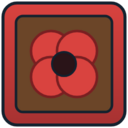
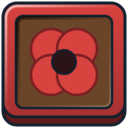
Faux 3D (option A) : tuiles en blocs biseautés, ombres portées sous les sacs et les panneaux
Claude-Session: https://claude.ai/code/session_013EccGmGcBAAqujeLGmWbCi

diff --git a/Design/Tiles/generate_tiles.py b/Design/Tiles/generate_tiles.py
@@ -7,13 +7,29 @@ O = '#13212e'
 CHROME = '/opt/pw-browsers/chromium-1194/chrome-linux/chrome'
 RES = '../../Assets/Resources'
 
+def darken(hexcolor, k):
+    h = hexcolor.lstrip('#')
+    r, g, b = (int(h[n:n + 2], 16) for n in (0, 2, 4))
+    return '#%02x%02x%02x' % (int(r * k), int(g * k), int(b * k))
+
 def tile(b_top, b_bot, soil, emblem, extra_defs=''):
+    """A chunky block seen from slightly above (faux 3D): a darker front face (the block's thickness), a beveled top face with a soft
+    light edge on its top-left, and a sunken soil bed with an inner shadow. The emblem is unchanged, drawn on the soil."""
+    side = darken(b_bot, 0.58)
     return ('<svg xmlns="http://www.w3.org/2000/svg" viewBox="0 0 256 256" width="256" height="256">'
-            '<defs><linearGradient id="b" x1="0" y1="0" x2="0" y2="1"><stop offset="0" stop-color="%s"/><stop offset="1" stop-color="%s"/></linearGradient>%s'
-            '<clipPath id="c"><rect x="32" y="32" width="192" height="192" rx="14"/></clipPath></defs>'
-            '<rect x="6" y="6" width="244" height="244" rx="28" fill="url(#b)" stroke="%s" stroke-width="6"/>'
-            '<rect x="32" y="32" width="192" height="192" rx="14" fill="%s" stroke="%s" stroke-width="5"/>'
-            '<g clip-path="url(#c)" stroke-linejoin="round" stroke-linecap="round">%s</g></svg>') % (b_top, b_bot, extra_defs, O, soil, O, emblem)
+            '<defs><linearGradient id="b" x1="0" y1="0" x2="0" y2="1"><stop offset="0" stop-color="%s"/><stop offset="1" stop-color="%s"/></linearGradient>'
+            '<linearGradient id="h" x1="0" y1="0" x2="1" y2="1"><stop offset="0" stop-color="#ffffff" stop-opacity="0.65"/><stop offset="0.5" stop-color="#ffffff" stop-opacity="0"/></linearGradient>'
+            '<linearGradient id="s" x1="0" y1="0" x2="1" y2="1"><stop offset="0" stop-color="#000000" stop-opacity="0.55"/><stop offset="0.55" stop-color="#000000" stop-opacity="0"/></linearGradient>'
+            '<linearGradient id="r" x1="0" y1="0" x2="1" y2="1"><stop offset="0.5" stop-color="#ffffff" stop-opacity="0"/><stop offset="1" stop-color="#ffffff" stop-opacity="0.28"/></linearGradient>%s'
+            '<clipPath id="c"><rect x="32" y="32" width="192" height="184" rx="14"/></clipPath></defs>'
+            '<rect x="6" y="20" width="244" height="230" rx="28" fill="%s" stroke="%s" stroke-width="6"/>'
+            '<rect x="6" y="6" width="244" height="228" rx="28" fill="url(#b)" stroke="%s" stroke-width="6"/>'
+            '<rect x="12" y="12" width="232" height="216" rx="23" fill="none" stroke="url(#h)" stroke-width="5"/>'
+            '<rect x="32" y="32" width="192" height="184" rx="14" fill="%s" stroke="%s" stroke-width="5"/>'
+            '<rect x="35.5" y="35.5" width="185" height="177" rx="12" fill="none" stroke="url(#s)" stroke-width="7"/>'
+            '<rect x="35.5" y="35.5" width="185" height="177" rx="12" fill="none" stroke="url(#r)" stroke-width="3"/>'
+            '<g clip-path="url(#c)"><g transform="translate(0,-4)" stroke-linejoin="round" stroke-linecap="round">%s</g></g></svg>') % (
+                b_top, b_bot, extra_defs, side, O, O, soil, O, emblem)
 
 def petals(n, r, w, fill, stroke, sw=5, phase=0, cx=128, cy=128, r_in=10):
     s = ''
@@ -113,10 +129,28 @@ tiles['Locked'] = tile('#7a6650', '#443626', '#2e2118', vd)
 os.makedirs('%s/Tiles' % RES, exist_ok=True)
 for name, svg in tiles.items():
     open(name + '.svg', 'w').write(svg)
-    open('_t.html', 'w').write('<html><body style="margin:0;background:transparent">%s</body></html>' % svg)
-    subprocess.run([CHROME, '--headless', '--no-sandbox', '--disable-gpu', '--hide-scrollbars', '--default-background-color=00000000',
-                    '--window-size=256,556', '--screenshot=_t.png', 'file://' + os.path.abspath('_t.html')], stdout=subprocess.DEVNULL, stderr=subprocess.DEVNULL)
-    subprocess.run(['convert', '_t.png', '-crop', '256x256+0+0', '+repage', name + '_256.png'])
+names = list(tiles.keys())
+js = """
+const { chromium } = require('playwright');
+const fs = require('fs');
+(async () => {
+  const b = await chromium.launch();
+  const p = await b.newPage({ viewport: { width: 256, height: 256 }, deviceScaleFactor: 1 });
+  for (const name of %s) {
+    const svg = fs.readFileSync(name + '.svg', 'utf8');
+    await p.setContent('<html><body style="margin:0;background:transparent">' + svg + '</body></html>');
+    await p.screenshot({ path: name + '_256.png', omitBackground: true, clip: { x: 0, y: 0, width: 256, height: 256 } });
+  }
+  await b.close();
+})();
+""" % names
+open('_render.js', 'w').write(js)
+env = dict(os.environ, NODE_PATH=subprocess.check_output(['npm', 'root', '-g']).decode().strip())
+subprocess.run(['node', '_render.js'], check=True, env=env)
+os.remove('_render.js')
+for name in names:
     subprocess.run(['convert', name + '_256.png', '-resize', '52x52', name + '_52.png'])
+    # The game loads 128 px copies (Resources/Tiles/<Name>.png, with their .meta already in place); Locked has none there.
+    if os.path.exists('%s/Tiles/%s.png' % (RES, name)):
+        subprocess.run(['convert', name + '_256.png', '-resize', '128x128', '%s/Tiles/%s.png' % (RES, name)])
     print('wrote', name)
-os.remove('_t.html'); os.remove('_t.png')

diff --git a/Assets/Scripts/Presentation/UIFactory.cs b/Assets/Scripts/Presentation/UIFactory.cs
@@ -189,6 +189,15 @@ namespace Contigu.Presentation
         /// sprite's rounded corners automatically. Not called from
         /// <see cref="FinishButton"/>; buttons get no outline.
         /// </summary>
+        /// <summary>A soft drop shadow under an icon (faux depth): a darkened copy of the graphic, offset downward, drawn behind it.</summary>
+        public static void AddDropShadow(Graphic target, float distance, float alpha = 0.32f)
+        {
+            var shadow = target.gameObject.AddComponent<Shadow>();
+            shadow.effectColor = new Color(0f, 0f, 0f, alpha);
+            shadow.effectDistance = new Vector2(distance * 0.35f, -distance);
+            shadow.useGraphicAlpha = true;
+        }
+
         public static void AddThickOutline(Image target, Color color, float thickness = 3f)
         {
             var outline = target.gameObject.AddComponent<Outline>();

diff --git a/Assets/Scripts/Presentation/GameBootstrap.Shop.cs b/Assets/Scripts/Presentation/GameBootstrap.Shop.cs
@@ -394,6 +394,7 @@ namespace Contigu.Presentation
             image.sprite = sprite;
             image.preserveAspect = true;
             image.raycastTarget = false;
+            UIFactory.AddDropShadow(image, 4f);
             image.rectTransform.anchorMin = new Vector2(0.5f - ShopView.UpgradeGlyphShopScale * 0.5f, 0.5f - ShopView.UpgradeGlyphShopScale * 0.5f);
             image.rectTransform.anchorMax = new Vector2(0.5f + ShopView.UpgradeGlyphShopScale * 0.5f, 0.5f + ShopView.UpgradeGlyphShopScale * 0.5f);
             image.rectTransform.offsetMin = image.rectTransform.offsetMax = Vector2.zero;

diff --git a/Assets/Scripts/Presentation/UpgradeCardFactory.cs b/Assets/Scripts/Presentation/UpgradeCardFactory.cs
@@ -40,6 +40,7 @@ namespace Contigu.Presentation
                 icon.sprite = signIcon;
                 icon.preserveAspect = true;
                 icon.raycastTarget = false;
+                UIFactory.AddDropShadow(icon, Mathf.Max(2f, IconSize * 0.04f));
                 icon.rectTransform.anchorMin = new Vector2(0.5f, 1f);
                 icon.rectTransform.anchorMax = new Vector2(0.5f, 1f);
                 icon.rectTransform.pivot = new Vector2(0.5f, 1f);

diff --git a/Assets/Scripts/Presentation/ModifierBadgeFactory.cs b/Assets/Scripts/Presentation/ModifierBadgeFactory.cs
@@ -51,6 +51,7 @@ namespace Contigu.Presentation
                 iconImage.preserveAspect = true;
                 iconImage.raycastTarget = false;
                 iconImage.sprite = icon;
+                UIFactory.AddDropShadow(iconImage, Mathf.Max(2f, size * 0.045f));
             }
             else if (colorTileColor.HasValue)
             {

diff --git a/docs/DECISIONS.md b/docs/DECISIONS.md
@@ -9477,3 +9477,9 @@ Ceci couvre l'intégralité des retours de playtest de cette liste.
 
 ## 2026-11-11 — Engagements : l'interrupteur remplacé par une coche
 - L'interrupteur (piste + bouton) était laid à l'écran. Remplacé par un état plus simple : une puce active est dorée avec un petit badge vert à coche (dessinée avec deux barres, sans glyphe) dans son coin ; une puce inactive garde son corps vert d'origine, assombri, avec un libellé estompé. Le libellé reprend toute la largeur de la puce. Non vérifié dans Unity.
+
+## 2026-11-12 — Faux 3D (option A) : première passe
+- Pistes étudiées pour la 3D : (A) faux 3D en 2D, (B) 3D réelle hybride, (C) jeu entièrement 3D. On commence par A ; B ne viendra qu'après un essai mesuré sur iPad (WebGL : mémoire, appels de rendu, modèles à produire pour les formes, couleurs et plus de cent fertilizers).
+- **Tuiles et pièces** (`Design/Tiles/generate_tiles.py`, rendu avec Playwright, copies 128 px dans `Assets/Resources/Tiles`) : chaque tuile devient un bloc vu d'un peu au-dessus : face avant plus sombre (l'épaisseur), face du dessus biseautée avec un liseré clair en haut à gauche, terre en creux avec une ombre intérieure. L'emblème est inchangé (remonté de 4 px). Valable pour les parcelles (Empty, Golden, Frozen, Bonus) comme pour les pièces (une couleur par fleur, Joker).
+- **Sacs de fertilizers et panneaux d'upgrades** : une ombre portée douce sous l'icône (`UIFactory.AddDropShadow`, composant `Shadow` à décalage vers le bas), sur le sac du panneau et de l'étagère, sur le panneau d'upgrade de la carte et celui des étagères. Aucun asset modifié.
+- Non vérifié dans Unity : seule une planche des PNG a été regardée. À contrôler sur capture : la lèvre du bas des tuiles dans la grille (espacement, lecture des lignes), et l'ombre des icônes.
